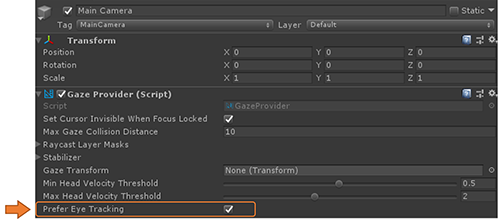
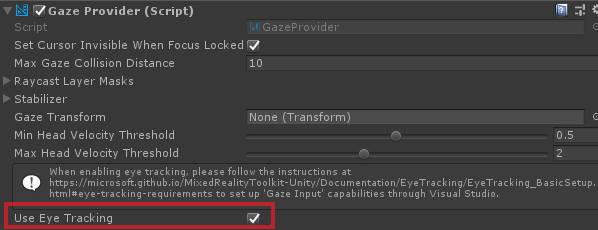
Simplify enabling/disabling eye tracking feature support with MRTK, Part 1
There are three steps that you need to take to enable eye tracking, and one of them is flipping a checkbox on the GazeProvider. The interesting thing is that even if this is set to true, the gaze provider will end up defaulting back to HL1 behavior anyway, so there's no harm in having the setting default to true - for folks who have HL1, they will still get HL1 behavior. For folks building on HL2, they will have one less step to take.

Note that this does increase the work for folks who have HL2 and actively want HL1 behavior, however.

diff --git a/Assets/MixedRealityToolkit.Services/InputSystem/GazeProvider.cs b/Assets/MixedRealityToolkit.Services/InputSystem/GazeProvider.cs
@@ -86,7 +86,7 @@ namespace Microsoft.MixedReality.Toolkit.Input
                + "https://microsoft.github.io/MixedRealityToolkit-Unity/Documentation/EyeTracking/EyeTracking_BasicSetup.html#eye-tracking-requirements "
                + "to set up 'Gaze Input' capabilities through Visual Studio.", "", false)]
         [FormerlySerializedAs("preferEyeTracking")]
-        private bool useEyeTracking = false;
+        private bool useEyeTracking = true;
 
         /// <inheritdoc />
         public bool UseEyeTracking

diff --git a/Documentation/EyeTracking/EyeTracking_BasicSetup.md b/Documentation/EyeTracking/EyeTracking_BasicSetup.md
@@ -7,9 +7,11 @@ Alternatively, you can check out our already configured [MRTK Eye Tracking Examp
 For Eye Tracking to work correctly, the following requirements must be met:
 
 1. An _'Eye Gaze Data Provider'_ must be added to the input system. This provides eye tracking data from the platform.
-2. Eye Tracking must be set as the preferred source in the _'Gaze Provider'_. This setting can be toggled at runtime.
-3. The _'Gaze Input'_ capability must be enabled in the application manifest. **Currently this is only available in Visual Studio.**
-4. The HoloLens **must** be calibrated for the current user under system settings.
+2. The _'Gaze Input'_ capability must be enabled in the application manifest. **Currently this is only available in Visual Studio.**
+3. The HoloLens **must** be calibrated for the current user under system settings.
+4. The GazeProvider must have its "Use Eye Tracking" property set to true. Note that true is the default value (so no special
+   action is required unless you have actively unchecked this property.)
+
 
 **IMPORTANT:** If any of the above requirements are not met, the application will automatically fall back to head-based gaze tracking.
 
@@ -46,7 +48,7 @@ You can simply select _DefaultMixedRealityToolkitConfigurationProfile_ and then 
 
 ### Enabling Eye Tracking in the GazeProvider
 In HoloLens v1, head gaze was used as primary pointing technique. 
-While head gaze is still available via the _GazeProvider_ in MRTK which is attached to your [Camera](https://docs.unity3d.com/ScriptReference/Camera.html), you can check to use eye gaze instead by ticking the _'Prefer Eye Tracking'_ checkbox as shown in the screenshot below.
+While head gaze is still available via the _GazeProvider_ in MRTK which is attached to your [Camera](https://docs.unity3d.com/ScriptReference/Camera.html), you can check to use eye gaze instead by ticking the _'Use Eye Tracking'_ checkbox as shown in the screenshot below.
 
 ![MRTK](../Images/EyeTracking/mrtk_setup_eyes_gazeprovider.png)
 
